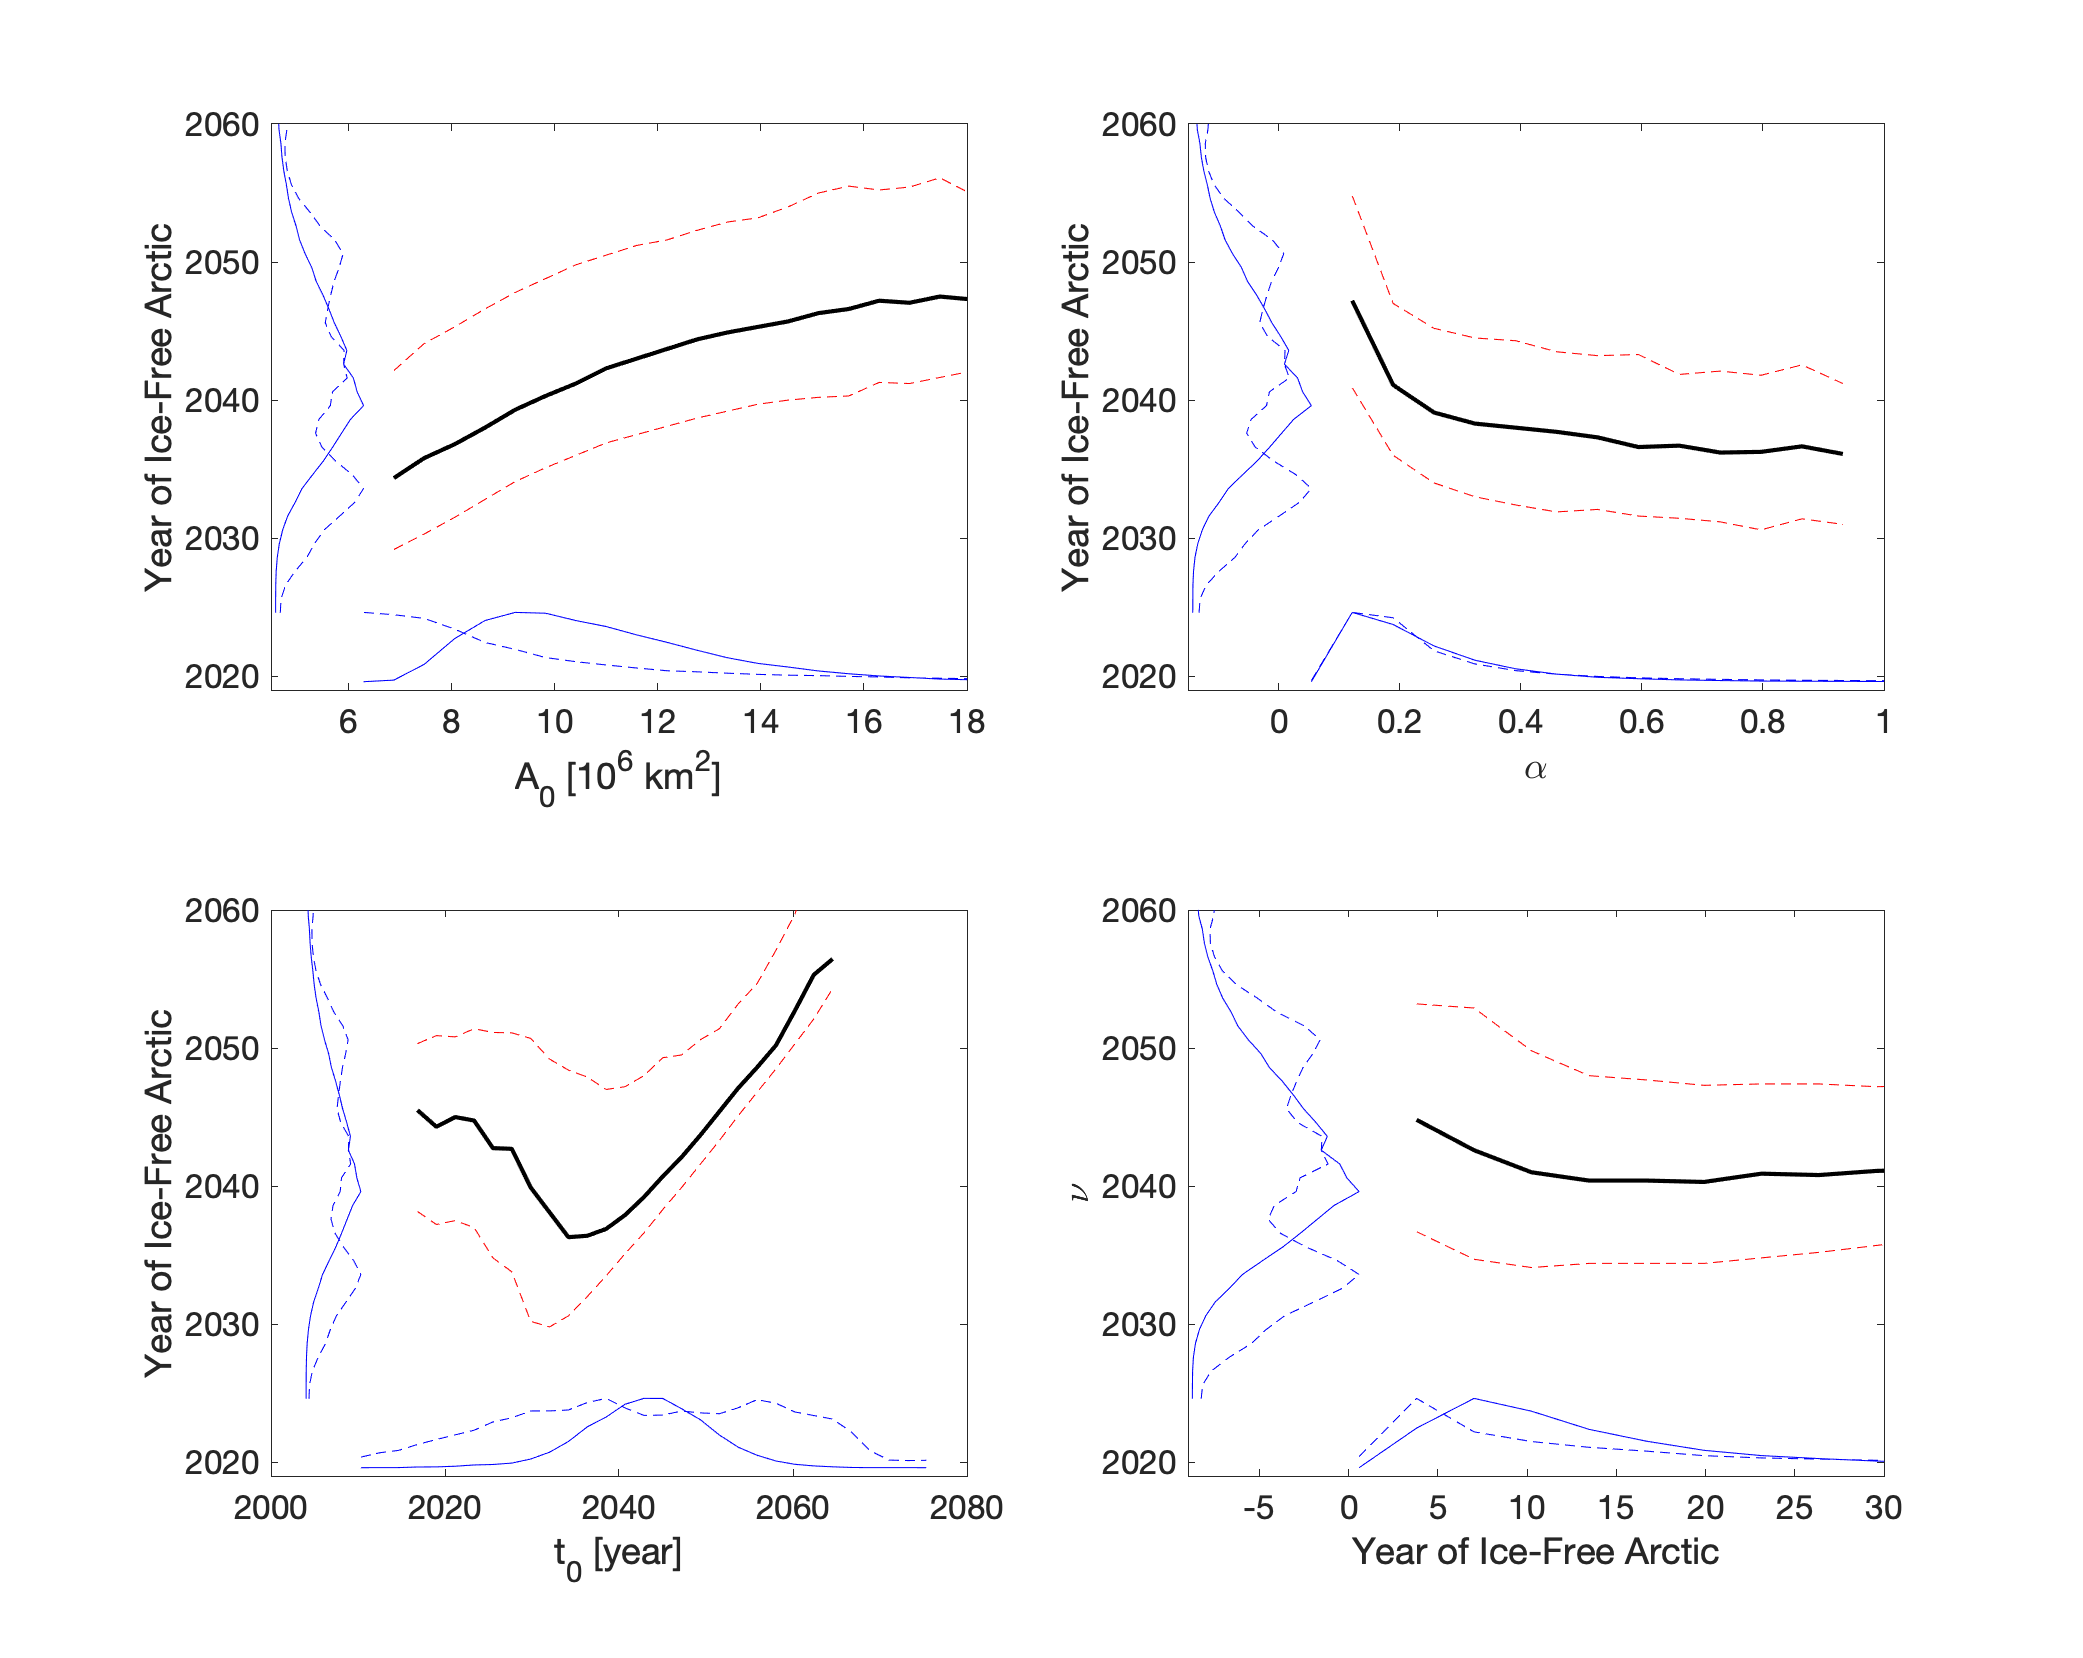
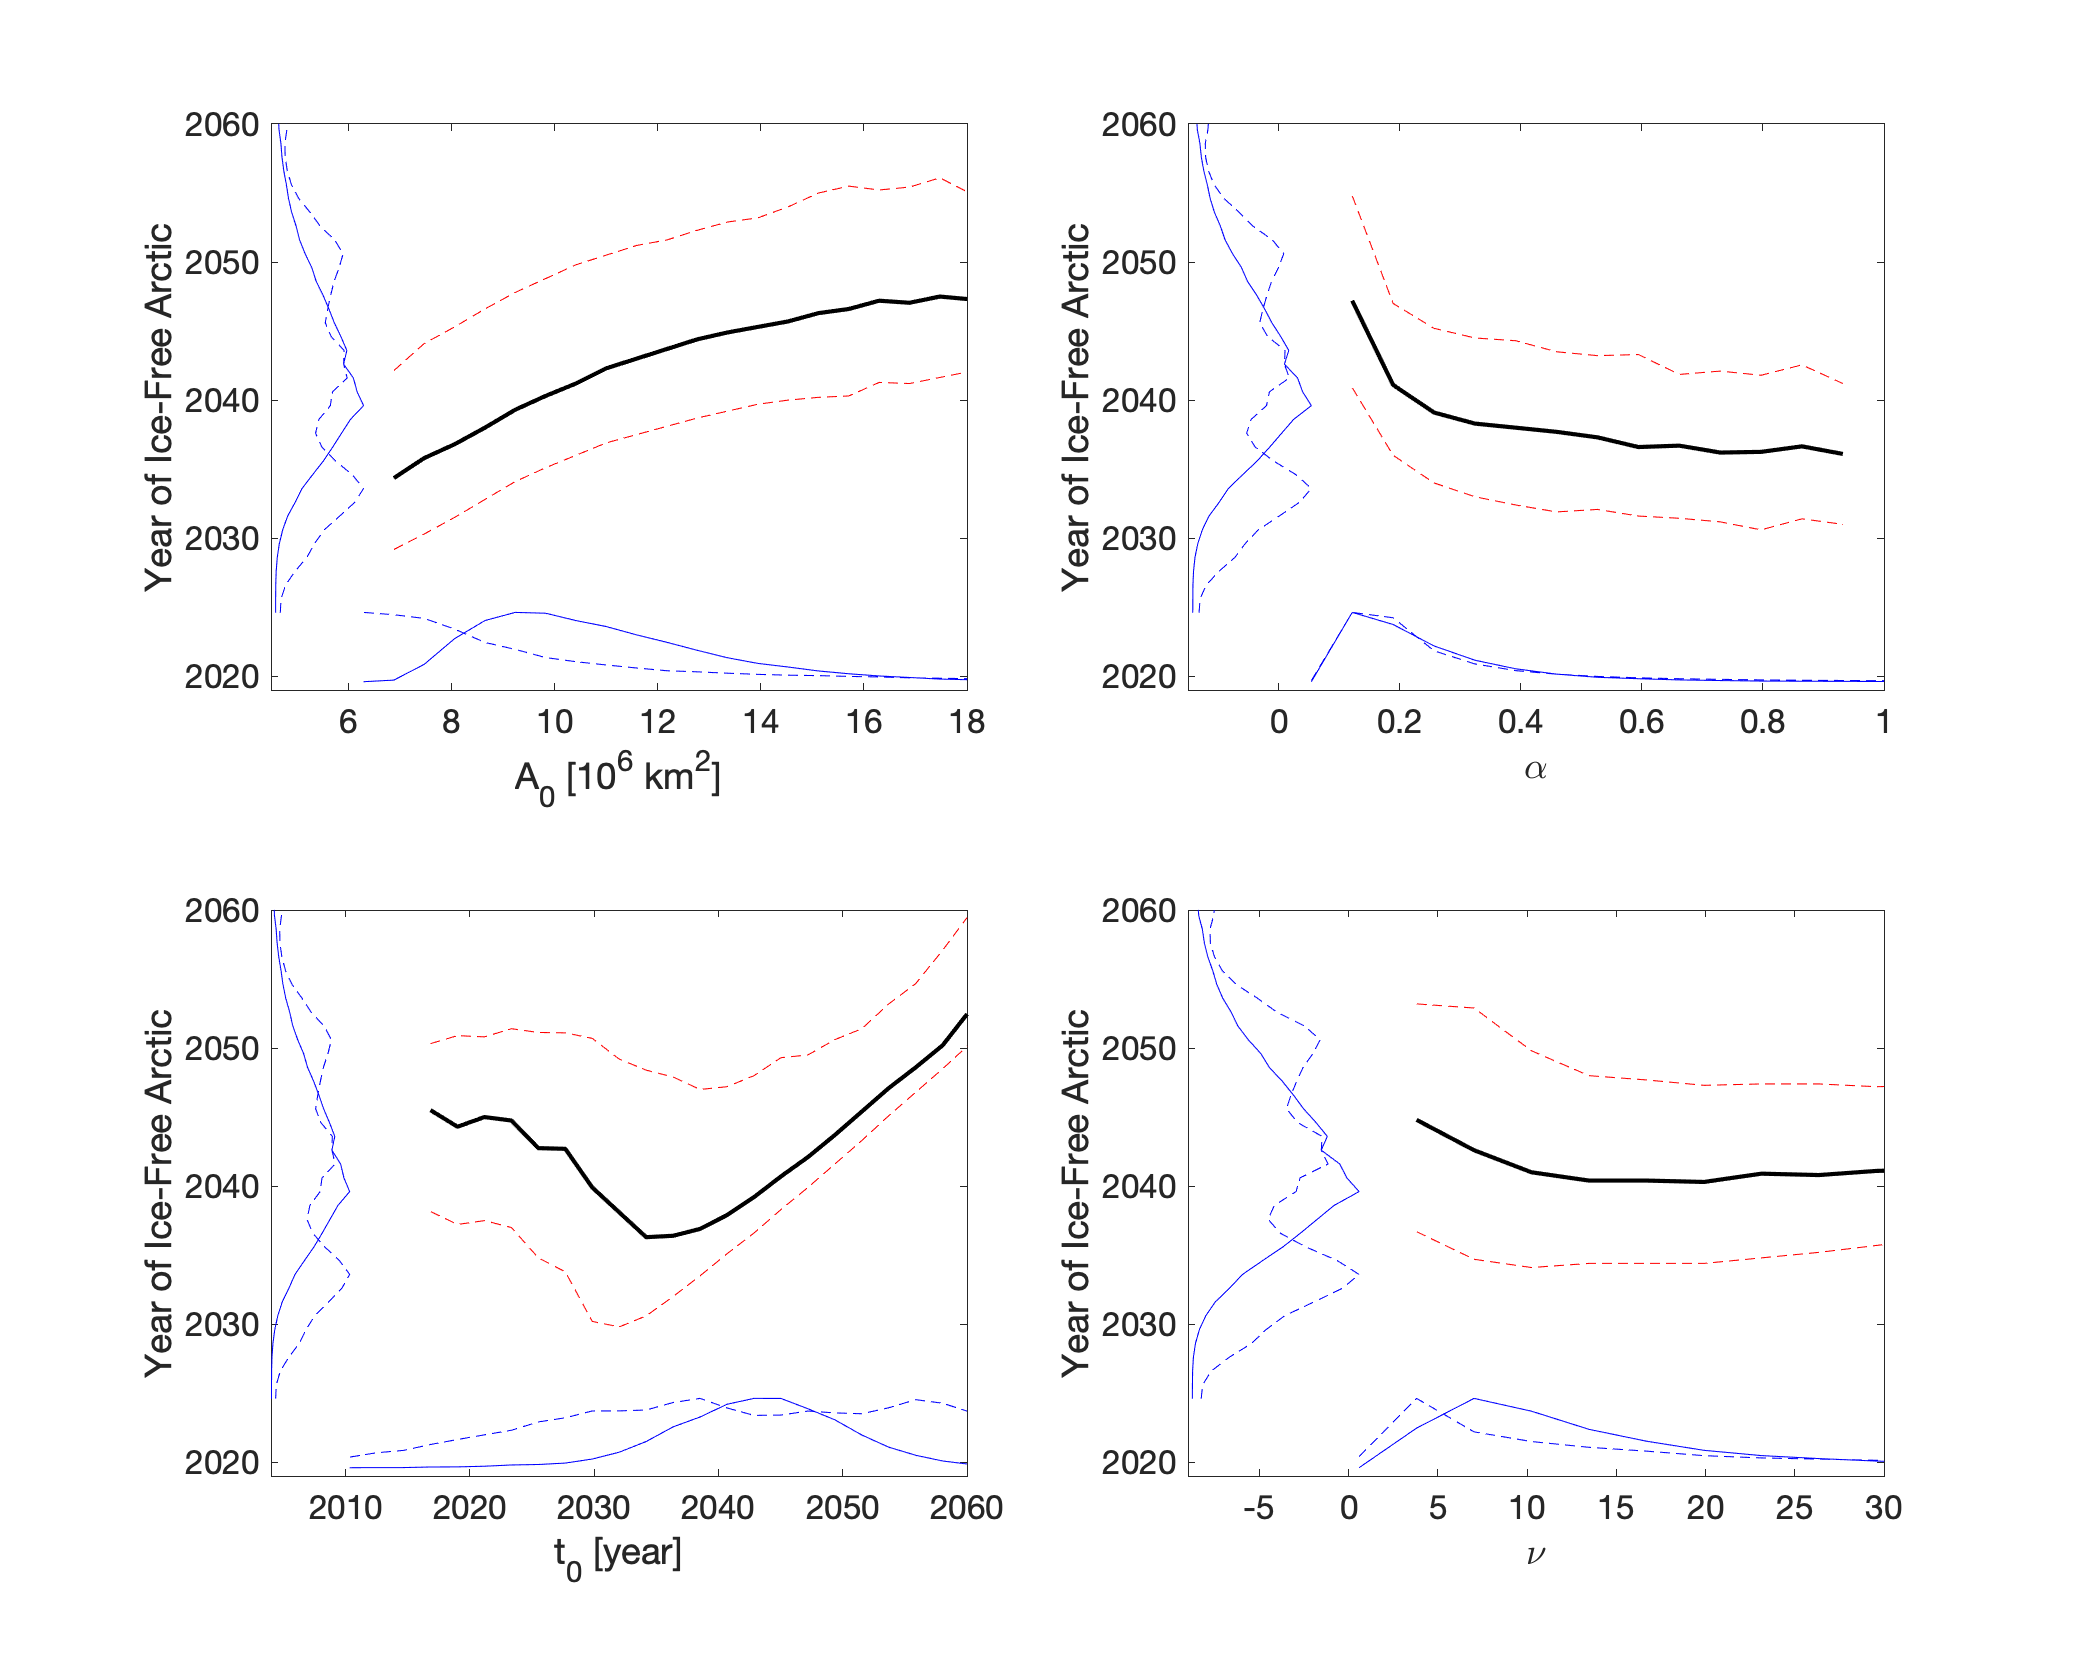
Clean up code for Fig. 4 and make more concise

diff --git a/sia_plots.m b/sia_plots.m
@@ -402,17 +402,6 @@ if Fig4
     [~,yr_all]=min(abs(yhat_all-1),[],2);
     yr_all=yr_all.*tRes;
     
-    ind=1;
-    for ii=min(yr):max(yr)
-        condI(ind).iYr=find(yr==ii);
-        condI(ind).year=ii;
-        condI(ind).conRange1=prctile(chain(condI(ind).iYr,1),[10 50 90]);
-        condI(ind).conRange2=prctile(chain(condI(ind).iYr,2),[10 50 90]);
-        condI(ind).conRange3=prctile(chain(condI(ind).iYr,3),[10 50 90]);
-        condI(ind).conRange4=prctile(chain(condI(ind).iYr,4),[10 50 90]);
-        ind=ind+1;
-    end
-    
     %Start by plotting just the first parameter, the max asymptote 
     %Add an edge before and after so line varies from zero
     yEdges=linspace(min(yr)-1,max(yr)+1,max(yr)-min(yr)+3); 
@@ -425,20 +414,7 @@ if Fig4
     subplot(2,2,1)
     pSel=1; %Parameter being plotted
     [x,xEdges,xPts,xPrior,conPlt,xy,xyprior,xPriorPts,xPostPts]=conditionaldistvalues(pSel,...
-    chain,p1_priors,yr,xNum,stYr,y,yprior);
-    plot(xPts,conPlt(:,1),'r--')
-    hold on
-    plot(xPts,conPlt(:,2),'Color','k','LineWidth',2)
-    hold on
-    plot(xPts,conPlt(:,3),'r--')
-    hold on
-    plot(xyprior,yPts+stYr,'b--')
-    hold on
-    plot(xy,yPts+stYr,'Color','b')
-    hold on
-    plot(xPts,xPriorPts,'b--');
-    hold on
-    plot(xPts,xPostPts,'Color','b');
+    chain,p1_priors,yr,xNum,stYr,y,yprior,yPts,1);
     xlim([4.5 18])
     ylim([2019 2060])
     xlabel('A_{0} [10^6 km^2]');
@@ -448,20 +424,7 @@ if Fig4
     subplot(2,2,2)
     pSel=2; %Parameter being plotted
     [x,xEdges,xPts,xPrior,conPlt,xy,xyprior,xPriorPts,xPostPts]=conditionaldistvalues(pSel,...
-        chain,p2_priors,yr,xNum,stYr,y,yprior);
-       plot(xPts,conPlt(:,1),'r--')
-    hold on
-    plot(xPts,conPlt(:,2),'Color','k','LineWidth',2)
-    hold on
-    plot(xPts,conPlt(:,3),'r--')
-    hold on
-    plot(xyprior,yPts+stYr,'b--')
-    hold on
-    plot(xy,yPts+stYr,'Color','b')
-    hold on
-    plot(xPts,xPriorPts,'b--');
-    hold on
-    plot(xPts,xPostPts,'Color','b');
+        chain,p2_priors,yr,xNum,stYr,y,yprior,yPts,1);
     xlim([-0.15 1])
     ylim([2019 2060])
     ylabel('Year of Ice-Free Arctic')
@@ -471,20 +434,7 @@ if Fig4
     subplot(2,2,3)
     pSel=3; %Parameter being plotted
         [x,xEdges,xPts,xPrior,conPlt,xy,xyprior,xPriorPts,xPostPts]=conditionaldistvalues(pSel,...
-        chain+stYr,p3_priors+stYr,yr,xNum,stYr,y,yprior);
-       plot(xPts,conPlt(:,1),'r--')
-    hold on
-    plot(xPts,conPlt(:,2),'Color','k','LineWidth',2)
-    hold on
-    plot(xPts,conPlt(:,3),'r--')
-    hold on
-    plot(xyprior,yPts+stYr,'b--')
-    hold on
-    plot(xy,yPts+stYr,'Color','b')
-    hold on
-    plot(xPts,xPriorPts,'b--');
-    hold on
-    plot(xPts,xPostPts,'Color','b');
+        chain+stYr,p3_priors+stYr,yr,xNum,stYr,y,yprior,yPts,1);
     xlim([2004 2060])
     ylim([2019 2060])
     ylabel('Year of Ice-Free Arctic')
@@ -494,21 +444,7 @@ if Fig4
     subplot(2,2,4)
     pSel=4; %Parameter being plotted
     [x,xEdges,xPts,xPrior,conPlt,xy,xyprior,xPriorPts,xPostPts]=conditionaldistvalues(pSel,...
-           chain,p4_priors,yr,xNum,stYr,y,yprior);
-       
-   plot(xPts,conPlt(:,1),'r--')
-   hold on
-   plot(xPts,conPlt(:,2),'Color','k','LineWidth',2)
-   hold on
-   plot(xPts,conPlt(:,3),'r--')
-   hold on
-   plot(xyprior,yPts+stYr,'b--')
-   hold on
-   plot(xy,yPts+stYr,'Color','b')
-   hold on
-   plot(xPts,xPriorPts,'b--');
-   hold on
-   plot(xPts,xPostPts,'Color','b');
+           chain,p4_priors,yr,xNum,stYr,y,yprior,yPts,1);
    ylim([2019 2060])
    xlim([-9 30])
    ylabel('Year of Ice-Free Arctic')
@@ -521,7 +457,7 @@ if Fig4
 end
 
 function [x,xEdges,xPts,xPrior,conPlt,xy,xyprior,xPriorPts,xPostPts]=conditionaldistvalues(pSel,...
-    chain,priors,yr,xNum,stYr,y,yprior)
+    chain,priors,yr,xNum,stYr,y,yprior,yPts,pltFlag)
     xEdges=linspace(min(chain(:,pSel)),max(chain(:,pSel)),xNum);
     xEdges=[xEdges(1)-range(xEdges)./30 xEdges xEdges(end)+range(xEdges)./xNum];
     xPts=diff(xEdges)+xEdges(1:end-1);
@@ -541,4 +477,20 @@ function [x,xEdges,xPts,xPrior,conPlt,xy,xyprior,xPriorPts,xPostPts]=conditional
     
     xPriorPts=xPrior*(range(yr)./(0.1*max(xPrior)*max(yr)))+min(yr)+stYr-5;
     xPostPts=x*(range(yr)./(0.1*max(x)*max(yr)))+min(yr)+stYr-5;
+    
+    if pltFlag
+        plot(xPts,conPlt(:,1),'r--')
+        hold on
+        plot(xPts,conPlt(:,2),'Color','k','LineWidth',2)
+        hold on
+        plot(xPts,conPlt(:,3),'r--')
+        hold on
+        plot(xyprior,yPts+stYr,'b--')
+        hold on
+        plot(xy,yPts+stYr,'Color','b')
+        hold on
+        plot(xPts,xPriorPts,'b--');
+        hold on
+        plot(xPts,xPostPts,'Color','b');
+    end
 end
